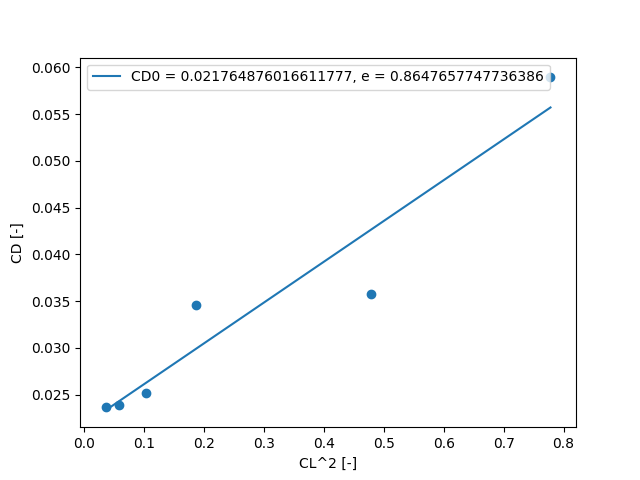
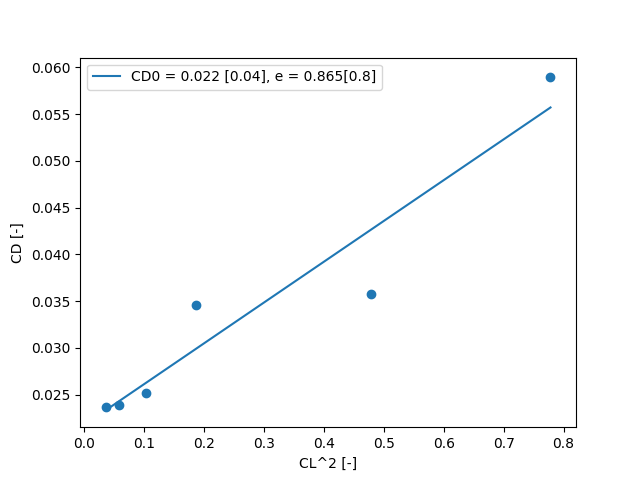
Split up in modules

Changed region(s): [[0.3438, 0.125, 0.875, 0.1875]]

diff --git a/domas/mainstationary.py b/domas/mainstationary.py
@@ -7,8 +7,9 @@ from datastationary import *
 from dataconst import *
 from dataweight import *
 from funcv import *
+from functhrust import *
 
-n_tests = len(data_not_si)
+n_test = len(data_not_si)
 data_not_si_T = data_not_si.T
 
 hp_ft = data_not_si_T[0]
@@ -18,6 +19,7 @@ FFl_lbhr = data_not_si_T[3]
 FFr_lbhr = data_not_si_T[4]
 mfu_lb = data_not_si_T[5]
 alpha_deg = data_not_si_T[6]
+alpha_rad = np.radians(alpha_deg)
 
 empty_weight = empty_weight_lb * lb_kg
 fuel_weight = fuel_weight_lb * lb_kg
@@ -44,16 +46,16 @@ rho = frho(p, T)
 CL = 2 * W / (rho * Vt**2 * S)              # Lift coefficient [ ]
 
 #Plotting and finding CLa
-CLa, intercept, uu_r_value, uu_p_value, uu_std_err = stats.linregress(alpha_deg,CL) # Lots of unused (uu_) values
+CLa, intercept, uu_r_value, uu_p_value, uu_std_err = stats.linregress(alpha_rad,CL) # Lots of unused (uu_) values
 
-linregress_x = np.array([min(alpha_deg), max(alpha_deg)])
+linregress_x = np.array([min(alpha_rad), max(alpha_rad)])
 linregress_y = intercept + CLa * linregress_x
 
-CLalabel = 'CLa = '+str(CLa)
+CLalabel = 'CLa = '+str(round(CLa,3))+' [5.084]'
 print(CLalabel)
 
 plt.plot(linregress_x, linregress_y, label = CLalabel)
-plt.scatter(alpha_deg, CL)
+plt.scatter(alpha_rad, CL)
 plt.ylabel('CL [-]')
 plt.xlabel('alpha [deg]')
 plt.legend()
@@ -61,28 +63,7 @@ plt.savefig('graphclalpha.png')
 plt.cla()
 plt.clf()
 
-# CD calculations
-T_ISA = T0 + labda * hp
-DeltaT = T - T_ISA
-with codecs.open('matlab.dat','w',encoding='utf8') as f:
-    for i in range(n_tests):
-        str1 = str(hp[i])+'\t'
-        str2 = str(M[i])+'\t'
-        str3 = str(DeltaT[i])+'\t'
-        str4 = str(FFl[i])+'\t'
-        str5 = str(FFr[i])+'\r\n'
-        strtot = str1+str2+str3+str4+str5
-        f.write(strtot)
-    f.close()
-
-os.system('java -jar thrust.jar')
-
-#dummy = input("Press any key when thrust.dat is updated.")
-
-infile = np.genfromtxt('thrust.dat').T
-T1 = infile[0]
-T2 = infile[1]
-Ttotal = T1 + T2
+Ttotal = fTtotal(T,n_test, hp, M, FFl, FFr)
 
 CD = 2 * Ttotal / (rho * Vt**2 * S)
  
@@ -96,7 +77,7 @@ linregress_y = CD0 + slope * linregress_x
 
 oswald = 1 / (pi * A * slope)
 
-CClabel = 'CD0 = '+str(CD0)+', e = '+str(oswald)
+CClabel = 'CD0 = '+str(round(CD0,3))+' [0.04], e = '+str(round(oswald,3))+'[0.8]'
 
 print(CClabel)
 
@@ -124,16 +105,16 @@ plt.clf()
 
 
 #Plotting CD-a
-CDa, intercept, uu_r_value, uu_p_value, uu_std_err = stats.linregress(alpha_deg,CD) # Lots of unused (uu_) values
+CDa, intercept, uu_r_value, uu_p_value, uu_std_err = stats.linregress(alpha_rad,CD) # Lots of unused (uu_) values
 
-linregress_x = np.array([min(alpha_deg), max(alpha_deg)])
+linregress_x = np.array([min(alpha_rad), max(alpha_rad)])
 linregress_y = intercept + CDa * linregress_x
 
-CDalabel = 'CDa = '+str(CDa)
+CDalabel = 'CDa = '+str(round(CDa,3))
 print(CDalabel)
 
 plt.plot(linregress_x, linregress_y, label = CDalabel)
-plt.scatter(alpha_deg, CD)
+plt.scatter(alpha_rad, CD)
 plt.ylabel('CD [-]')
 plt.xlabel('alpha [deg]')
 plt.legend()

diff --git a/domas/functhrust.py b/domas/functhrust.py
@@ -1,0 +1,23 @@
+from dataconst import *
+import os
+
+def fTtotal(T, n_tests, hp, M, FFl, FFr):
+    TISA = T0 + labda * hp
+    DeltaT = T - TISA
+    f = open('matlab.dat','w')
+    for i in range(n_tests):
+        str1 = str(hp[i])+'\t'
+        str2 = str(M[i])+'\t'
+        str3 = str(DeltaT[i])+'\t'
+        str4 = str(FFl[i])+'\t'
+        str5 = str(FFr[i])+'\r\n'
+        strtot = str1+str2+str3+str4+str5
+        f.write(strtot)
+    f.close()
+
+    os.system('java -jar thrust.jar')
+
+    gen = np.genfromtxt('thrust.dat').T
+    T1 = gen[0]
+    T2 = gen[1]
+    return T1 + T2

diff --git a/domas/datatrim.py b/domas/datatrim.py
@@ -9,5 +9,8 @@ data_not_si = np.array([
 [7730,	172,	4.0,	0.6,	3.1,	15,	424,	463,	817,	1.5],
 [7290,	180,	3.5,	0.8,	3.1,	32,	427,	467,	837,	3.5],
 [6600,	190,	3.0,	1.1,	3.1,	50,	437,	477,	862,	5.0],
-[6800,	160,	4.6,	0.2,	3.1,	0,	430,	470,	897,	3.0], # Before Delta CG
-[6860,	160,	4.7,	-0.2,	3.1,	-25,	430,	470,	920,	3.0]]) # Agter Delta CG
+[6800,	160,	4.6,	0.2,	3.1,	0,	430,	470,	897,	3.0]]) # Before Delta CG
+
+myk_not_si = np.array([[6860,	160,	4.7,	-0.2,	3.1,	-25,	430,	470,	920,	3.0]]) # After Delta CG
+
+Deltadeltae_deg = data_not_si[7][3] - myk_not_si[0][3]

diff --git a/domas/funcstab.py b/domas/funcstab.py
@@ -1,0 +1,7 @@
+import numpy as np
+from dataconst import *
+
+def fdeltaeeq(rho, V, xcg, W, deltate, TC, deltaf, lgp): return
+def fxcg(t, massdistr): return
+def fFeaer(W, xcg, q, deltate): return
+def fFstareaer(Feaer, Ws, W): return Feaer * Ws / W

diff --git a/domas/maintrim.py b/domas/maintrim.py
@@ -35,3 +35,8 @@ Vt = fVt(M, a)
 rho = frho(p, T)
 Ve = fVe(Vt, rho)
 Vetilde = fVetilde(Ve, Ws, W) #W
+
+CN = 2 * W / (rho * Vt**2 * S)
+
+Ttotal = fTtotal(n_test, hp, M, FFl, FFr)
+Ts = fTtotal(1, [0], 

diff --git a/domas/dataconst.py b/domas/dataconst.py
@@ -11,7 +11,7 @@ kts_ms = 0.514444
 c_k = 273.15
 lbhr_kgs = 0.000125998
 lb_kg = 0.453592
-
+mdotfs = 0.048 #kg/s
 
 # Aircraft geometry
 S      = 30.00	          # wing area [m^2]
